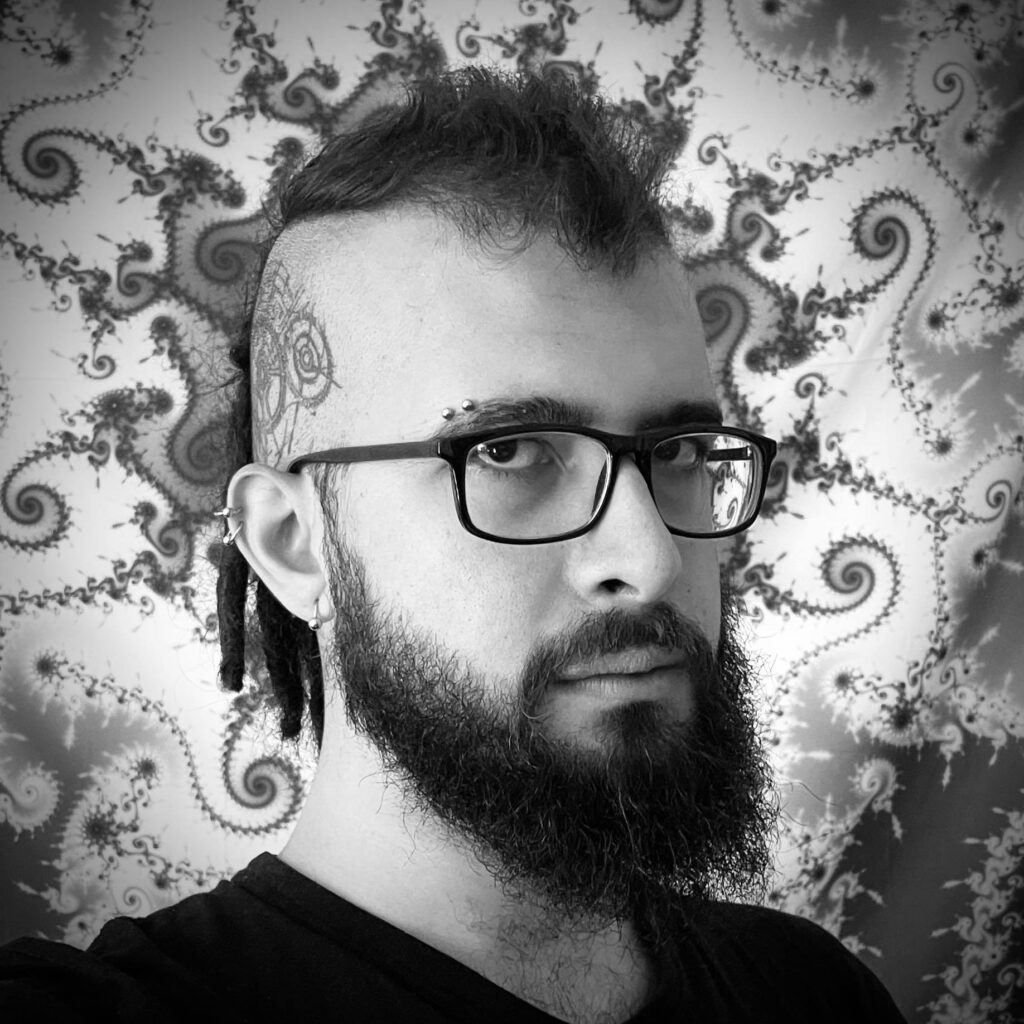
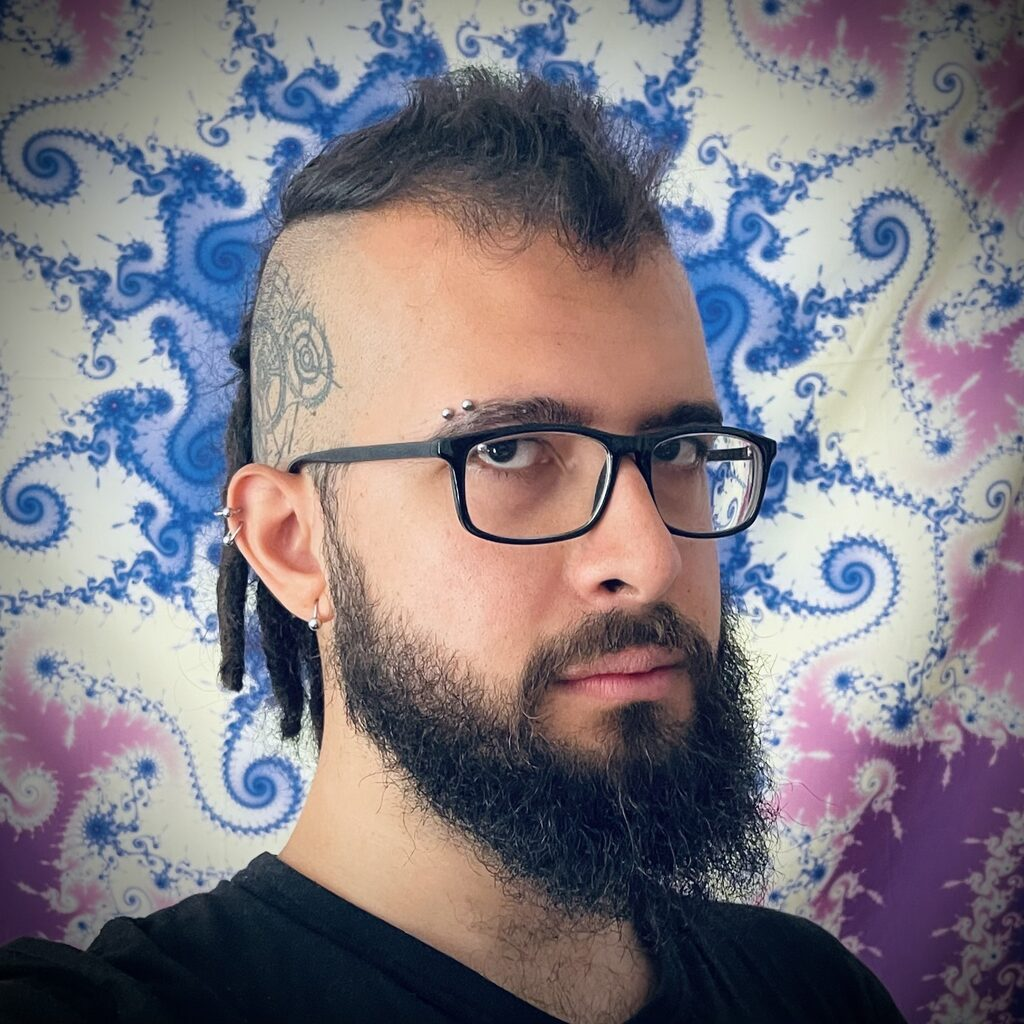
Update bios to current affiliations and refresh profile photo
Align the About page with the new homepage intro, replace the outdated
2014 Portuguese Sobre page with a translation of it, fix dead WordPress
links, and swap the sidebar avatar for a recent photo (EXIF stripped).

diff --git a/content/page/sobre/index.pt.md b/content/page/sobre/index.pt.md
@@ -9,10 +9,22 @@ menu:
             icon: user
 ---
 
-Meu nome é Ariel Pontes. Sou o criador e escritor dos textos publicados nesse blog. Sou formado em engenharia da computação na PUC-Rio e atualmente trabalho com desenvolvimento web em Cluj-Napoca, Romênia. No meu tempo livre, porém, gosto de mudar de assunto e ler, escrever e discutir sobre filosofia, ciência, religião, biologia evolutiva e sociedade no geral. Qualquer assunto controverso com potencial para gerar embates ideológicos é bem vindo.
+Meu nome é Ariel Pontes. Escrevo sobre filosofia, ciência, racionalidade e questões sociopolíticas, especialmente sobre por que estamos tão polarizados e como podemos discordar melhor. Às vezes isso toma a forma de ensaios, às vezes de conversas ou áudio. Tenho mestrado em filosofia analítica e bacharelado em engenharia da computação. Sou cofundador da [Humanists Brazil](https://humanists.international/civi/profile/view/?reset=1&id=5643&gid=19), ex-organizador da [Altruísmo Eficaz Romênia](https://forum.effectivealtruism.org/groups/7FAAty6JpoG75Wot5) e voluntário no coletivo de Bucareste do [DiEM25](https://diem25.org/).
 
-Esse blog foi criado originalmente em 2007 para facilitar debates com amigos próximos, mas está aberto para qualquer um comentar. O blog inclui questionamentos e argumentos pessoais, mas eu tento dentro do possível escrever textos informativos, com referências, de forma a deixar claro de onde vêm minhas premissas.
+## História
 
-Este blog é escrito dentro de um paradigma [racionalista](http://en.wikipedia.org/wiki/Rationalism). Ou seja, parte da premissa que qualquer crença/opinião deve ter como base a razão, se opondo portanto a crenças com base na fé.
+Sempre fui fascinado pelas grandes questões da vida. O que somos? De onde viemos? O que devemos fazer? Durante minha infância e adolescência, encontrei respostas para essas perguntas na religião, particularmente na religião do meu avô, que era a autoridade espiritual da família. Suas crenças religiosas eram uma mistura de misticismo rosacruz com o espiritismo kardecista que permeia a cultura de classe média do Sudeste brasileiro onde cresci. Essencialmente, eu acreditava que éramos espíritos caídos que viviam em um estado de perfeita harmonia com Deus, mas que por imaturidade fomos tentados a nos afastar dele, acabando neste mundo cheio de dor e sofrimento. O objetivo das nossas vidas era amadurecer espiritualmente e eventualmente nos reconectarmos com Deus, ajudando os outros a fazer o mesmo. Essa jornada (conhecida nas tradições orientais como "samsara") podia se estender por muitas vidas como seres diferentes. Se eu não evoluísse espiritualmente, poderia reencarnar como um miserável animal de criação intensiva na próxima vida, ou como um ser ainda mais torturado em uma dimensão inferior, mais infernal. O sucesso, por outro lado, poderia me recompensar com uma reencarnação como uma pessoa extremamente rica e de beleza estonteante, ou talvez, com mais sorte ainda, com um nascimento em uma dimensão superior e mais paradisíaca. Esse era o objetivo último da vida para mim, então eu o levava a sério.
 
-Desde 2013, a maioria dos textos também são publicados na [Sociedade Racionalista](http://www.sociedaderacionalista.org/), e podem ser acessados em [sociedaderacionalista.org/author/ariel](http://sociedaderacionalista.org/author/ariel).
+No fim da adolescência, porém, depois de uma série de tentativas fracassadas de me tornar médium e sair do corpo usando técnicas de projeção astral, me tornei ateu. Foi um processo longo, que descrevo em mais detalhes [aqui](https://medium.com/humanist-voices/why-im-not-a-theist-6da072ea6ab7) (em inglês). Li artigos e livros e assisti a documentários e debates com Richard Dawkins, Sam Harris, Christopher Hitchens e Daniel Dennett, que se tornaram meus heróis. Aprendi com Dennett que o segredo da felicidade é "encontrar algo mais importante do que você e dedicar sua vida a isso". Mas a que eu deveria dedicar minha vida? Havia muitas causas que pareciam nobres, como combater a fome, a pobreza, as doenças etc. Mas sempre que discutia com as pessoas sobre como resolver esses problemas, esbarrava no mesmo obstáculo: desacordos insuperáveis. Concluí então que, se quiséssemos resolver esses problemas, precisaríamos primeiro concordar sobre algumas premissas básicas, porque só depois disso poderíamos trabalhar coletivamente para resolvê-los. Eu não conseguia me contentar, como muitos, com a visão culturalmente relativista de que todos os sistemas de crenças são válidos e devemos simplesmente aceitar nossas diferenças e trabalhar para melhorar o mundo *apesar* dos nossos desacordos. Claro que é importante que *também* façamos isso, mas não me parecia nada óbvio que isso é *tudo* o que devemos fazer. Na verdade, parecia bastante irresponsável simplesmente ignorar ou até se opor a estratégias válidas de melhorar o mundo em vez de empregá-las todas em paralelo. No Brasil, por exemplo, muitos se opõem de fato ao aborto porque acreditam que almas são colocadas por Deus no embrião no momento da concepção.
+
+### O blog
+
+À medida que debatia sobre diferentes assuntos, me vi repetindo os mesmos argumentos várias vezes. Em 2007, numa tentativa de ser mais eficiente, nasceu o Ghostless Machine. O título do blog é uma referência à metáfora do "fantasma na máquina" ("the ghost in the machine") de Gilbert Ryle, que chegou até mim através do anime Ghost in the Shell (mais sobre o título [aqui]({{< relref "/post/2007-12-06-titulo" >}})). Segundo a nossa melhor ciência, somos todos máquinas sem fantasma: mecanismos biológicos cuja consciência é uma propriedade emergente do nosso substrato físico. Como essa propriedade emerge, e onde ela emerge ou não (animais simples, plantas, computadores etc.), continua sendo uma questão em aberto, ainda sem resposta científica. Mas a ciência nos dá razões de sobra para concluir que a ideia de que o corpo humano é habitado por um agente imaterial, cujas decisões são livres das cadeias causais da biologia e da cultura, não passa de superstição perigosa. Perigosa porque costuma servir de desculpa conveniente para desfrutar dos luxos de uma vida privilegiada que você acredita "merecer" enquanto milhões de pessoas sofrem porque "mereceram".
+
+Hoje sou bacharel em engenharia da computação pela PUC-Rio e mestre em filosofia analítica pela Universidade de Bucareste. Além de escrever neste blog, sou ativo em várias organizações humanistas. Como membro da [Associação Secular-Humanista Romena (ASUR)](https://en.wikipedia.org/wiki/Romanian_Secular-Humanist_Association), mantive um pequeno "clube de ética" em Cluj e, depois que me mudei para Bucareste, organizei uma série de diálogos públicos, em que convidávamos pessoas com visões diferentes sobre diversos temas controversos para conversar pacificamente com uma plateia interativa. No plano internacional, fui coordenador do grupo de trabalho das Américas na Young Humanists International por 3 anos, período em que criei a publicação humanista [Humanist Voices](https://medium.com/humanist-voices/), da qual fui escritor e editor. Também sou um dos fundadores do grupo humanista brasileiro [Humanistas Brasil](https://www.facebook.com/HumanistasBR/) e contribuí como apresentador do [Hora H](https://anchor.fm/horah), o primeiro podcast humanista secular do país. Em 2022 também fundei a [Altruísmo Eficaz Romênia](https://linktr.ee/earomania), da qual fui o principal organizador por vários anos. Hoje em dia, a maior parte do meu voluntariado é no coletivo de Bucareste do [DiEM25](https://diem25.org/).
+
+Nos primórdios do blog, quando eu era um ateu recém-assumido entre familiares e colegas majoritariamente religiosos, a maioria dos meus argumentos buscava persuadir pessoas religiosas ou indecisas a adotar uma visão de mundo naturalista, e responder aos argumentos comuns contra minhas posições antirreligiosas. Conforme fui esgotando meus argumentos e conhecendo cada vez mais ateus, comecei a presenciar cada vez mais debates sobre questões políticas variadas que frequentemente dividiam os próprios ateus. Embora eu ainda acredite que promover uma visão de mundo naturalista seja importante, ultimamente tenho me visto escrevendo cada vez mais sobre temas controversos não relacionados ao ateísmo. Acredito que a polarização política trazida pela era das redes sociais é um dos maiores problemas da nossa sociedade hoje. Problemas globais precisam ser resolvidos coletivamente, e para resolver um problema P precisamos primeiro concordar que o estado atual do mundo é S1, que S1 é ruim, e que existe pelo menos um outro estado S2 que seria melhor. Só então podemos transformar o mundo, coletivamente, de S1 em S2. Se até progressistas e humanistas seculares estão divididos, é difícil imaginar como as coisas poderiam melhorar. Muito do que tenho escrito ultimamente, portanto, é uma tentativa de construir pontes entre, de um lado, esquerdistas "woke" agressivos e moralistas e, do outro, centristas arrogantes que se dizem racionais, com tendências alt-right latentes.
+
+### O podcast
+
+Em 2020 comecei um podcast em que disponibilizava meus textos em formato de áudio. Em 2023, depois de muitas conversas com outras pessoas também preocupadas com a polarização política, comecei uma série de diálogos em que tenho desacordos amigáveis sobre temas controversos com uma variedade de convidados. Essas conversas são guiadas por três princípios fundamentais: mentalidade de escoteiro (scout mindset), comunicação não-violenta e honestidade radical. Seguindo esses princípios, espero dar um exemplo positivo e mostrar às pessoas que é possível discordar amigavelmente e discutir temas controversos sem brigar. Espero que isso contribua para uma cultura com normas de discurso mais saudáveis, com menos polarização, extremismo e cultura do cancelamento, e mais diálogo, moderação e justiça restaurativa.

diff --git a/content/page/about/index.md b/content/page/about/index.md
@@ -10,9 +10,7 @@ menu:
             icon: user
 ---
 
-![](http://ghostlessmachine.com/wp-content/uploads/2021/08/me-2021-1024x1024.jpg)
-
-I'm Ariel Pontes and I think political polarization is one of the biggest problems in our society right now. That's why I started a series of dialogues where I have friendly disagreements over controversial topics with a variety of guests. These conversations are guided by three core principles: scout mindset, non-violent communication, and radical honesty. When I'm not discussing with guests, I write about philosophy, science, rationality, and sociopolitical issues. I have a bachelor's in computer engineering, a master's in analytic philosophy, and I'm a co-founder at [Humanists Brazil](https://humanists.international/civi/profile/view/?reset=1&id=5643&gid=19) and [Effective Altruism Romania](https://forum.effectivealtruism.org/groups/7FAAty6JpoG75Wot5), where I do community building.
+I'm Ariel Pontes. I write about philosophy, science, rationality, and sociopolitical issues, especially why we're so polarized and how we might disagree better. Sometimes that takes the form of essays, sometimes conversations or audio. I have a master's in analytic philosophy and a bachelor's in computer engineering. I'm a co-founder of [Humanists Brazil](https://humanists.international/civi/profile/view/?reset=1&id=5643&gid=19), a former organizer at [Effective Altruism Romania](https://forum.effectivealtruism.org/groups/7FAAty6JpoG75Wot5), and a volunteer at the [DiEM25](https://diem25.org/) Bucharest Collective.
 
 ## History
 
@@ -22,9 +20,9 @@ By my late teens, however, after a series of failed attempts to become a medium 
 
 ### The blog
 
-As I debated about different topics, I found myself making the same arguments over and over again. In 2007, in an attempt to be more efficient, Ghostless Machine was born. The title of the blog is a reference to Gilbert Ryle's metaphor of "the ghost in the machine", which had come to my awareness via the anime Ghost in the Shell (more about the title [here](http://ghostlessmachine.com/en/2007/12/ghostless-machine/)). According to our best available science, we are all ghostless machines: biological clockwork whose consciousness is an emergent property of our physical substrate. How that property emerges, and where it does and doesn't emerge (e.g. simple animals, plants, computers, etc) remains an open question still unanswered by science. However, science does give us plenty of reasons to conclude that the idea that the human body is inhabited by an immaterial agent whose decisions are free from the causal chains of biology and culture is nothing but dangerous superstition. Dangerous because it is often a self-serving excuse to indulge in the luxuries of a privileged life that you believe "you are entitled to" while letting millions of people suffer because "they deserve it".
+As I debated about different topics, I found myself making the same arguments over and over again. In 2007, in an attempt to be more efficient, Ghostless Machine was born. The title of the blog is a reference to Gilbert Ryle's metaphor of "the ghost in the machine", which had come to my awareness via the anime Ghost in the Shell (more about the title [here]({{< relref "/post/2007-12-05-ghostless-machine" >}})). According to our best available science, we are all ghostless machines: biological clockwork whose consciousness is an emergent property of our physical substrate. How that property emerges, and where it does and doesn't emerge (e.g. simple animals, plants, computers, etc) remains an open question still unanswered by science. However, science does give us plenty of reasons to conclude that the idea that the human body is inhabited by an immaterial agent whose decisions are free from the causal chains of biology and culture is nothing but dangerous superstition. Dangerous because it is often a self-serving excuse to indulge in the luxuries of a privileged life that you believe "you are entitled to" while letting millions of people suffer because "they deserve it".
 
-Today I have a BA in Computer Engineering from PUC-Rio and a MA in Analytic Philosophy from the University of Bucharest. Besides writing on this blog, I am also active in several Humanist organizations. As a member of the [Romanian Secular-Humanist Association (ASUR)](https://en.wikipedia.org/wiki/Romanian_Secular-Humanist_Association), I have held a small "ethics club" in Cluj and after I moved to Bucharest I organized a series of public dialogues, where we invited people with different views on a variety of controversial topics to have a peaceful dialogue with an interactive audience. At the international level, I was chair of the Americas working group at Young Humanists International for 3 years, during which I started the Humanist publication [Humanist Voices](https://medium.com/humanist-voices/), where I was a writer and editor. I am also one of the founders of the Brazilian Humanist group [Humanistas Brasil](https://www.facebook.com/HumanistasBR/), and I contributed as a host to [Hora H](https://anchor.fm/horah), the first secular humanist podcast in the country. In 2022 I also founded [Effective Altruism Romania](https://linktr.ee/earomania), where I'm currently the main organizer.
+Today I have a BA in Computer Engineering from PUC-Rio and a MA in Analytic Philosophy from the University of Bucharest. Besides writing on this blog, I am also active in several Humanist organizations. As a member of the [Romanian Secular-Humanist Association (ASUR)](https://en.wikipedia.org/wiki/Romanian_Secular-Humanist_Association), I have held a small "ethics club" in Cluj and after I moved to Bucharest I organized a series of public dialogues, where we invited people with different views on a variety of controversial topics to have a peaceful dialogue with an interactive audience. At the international level, I was chair of the Americas working group at Young Humanists International for 3 years, during which I started the Humanist publication [Humanist Voices](https://medium.com/humanist-voices/), where I was a writer and editor. I am also one of the founders of the Brazilian Humanist group [Humanistas Brasil](https://www.facebook.com/HumanistasBR/), and I contributed as a host to [Hora H](https://anchor.fm/horah), the first secular humanist podcast in the country. In 2022 I also founded [Effective Altruism Romania](https://linktr.ee/earomania), where I was the main organizer for several years. These days I do most of my volunteering with the [DiEM25](https://diem25.org/) Bucharest Collective.
 
 In the early days of the blog, when I was a freshly self-discovered atheist among mostly religious family members and classmates, most of my arguments aimed to persuade religious or undecided people to adopt a naturalistic worldview, and to provide responses to the common arguments made against my anti-religious views. As I started to exhaust my arguments and meet more and more atheists, I started witnessing more and more debates that concerned a variety of political issues and often divided atheists. Although I still believe promoting a naturalistic worldview is important, I have lately found myself writing more and more about controversial topics unrelated to atheism. I believe the political polarization brought by the age of social media is one of the biggest problems faced by our society today. Global problems must be solved collectively, and in order to solve a problem P we must first agree that the current state of the world is S1, that S1 is bad, and that there is at least one other state S2 that would be better. Only then can we proceed to collectively transform the world from S1 to S2 collectively. If even progressives and secular humanists are divided, it is hard to imagine how things could improve. Much of what I've been writing about lately, therefore, is an attempt to bridge the gap between aggressive and self-righteous woke leftists on the one hand, and arrogant self-proclaimed rational centrists with latent alt-right tendencies on the other.
 
